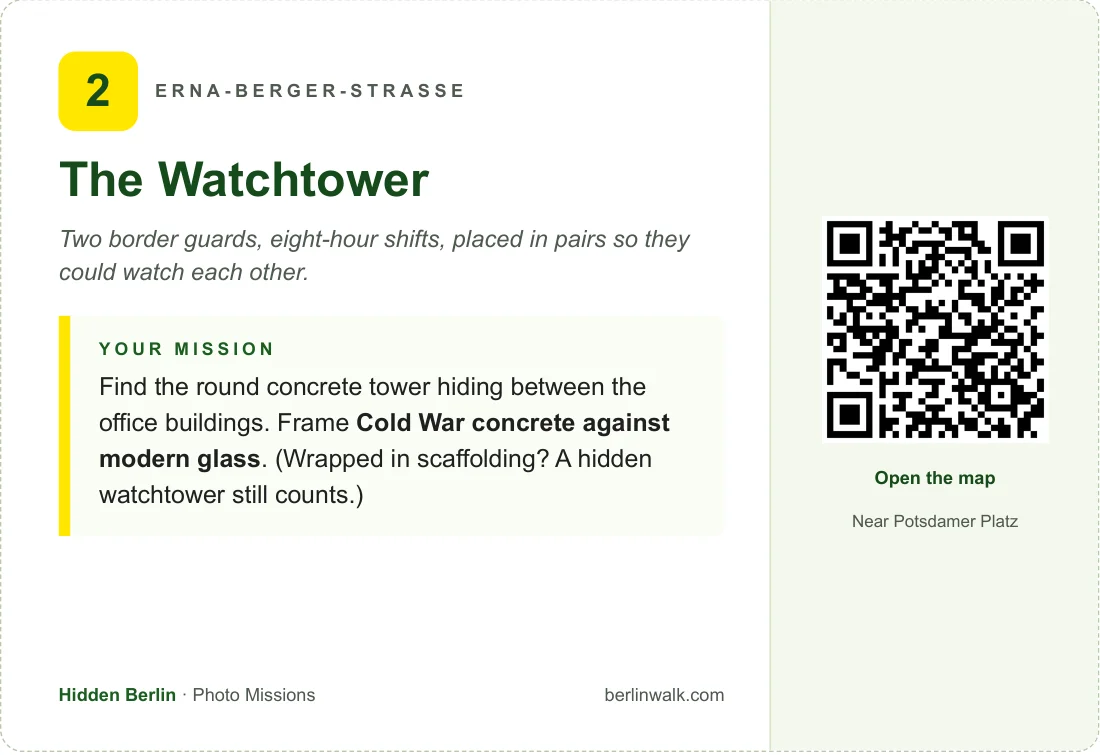
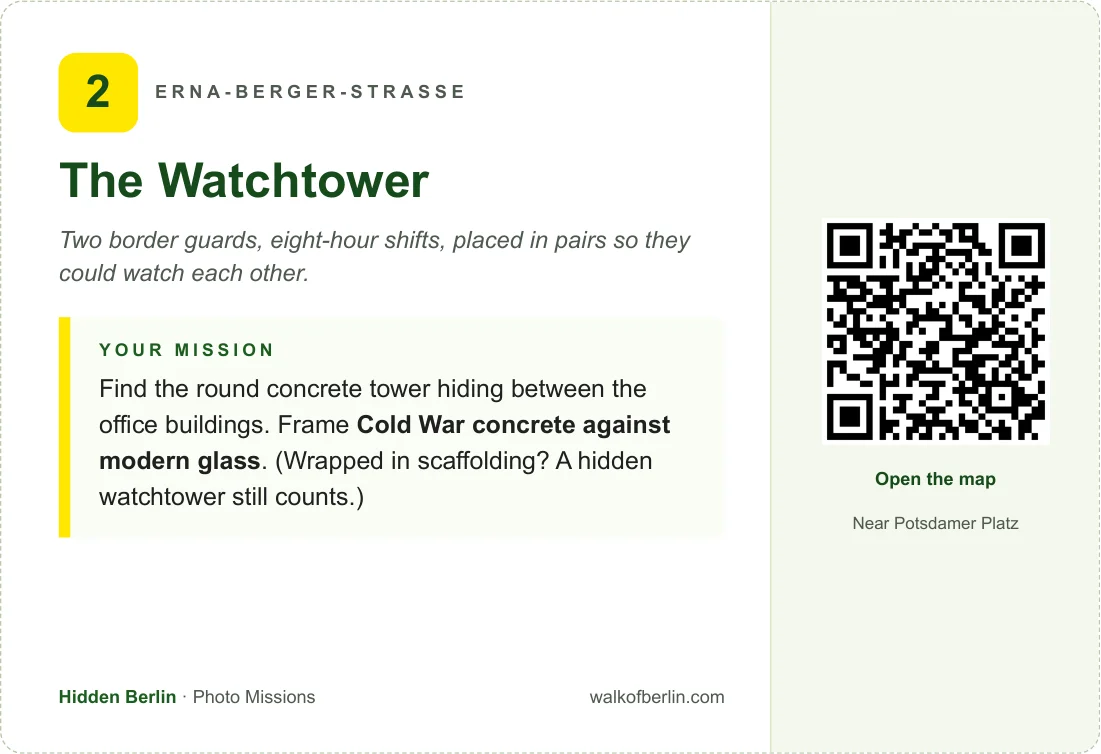
Update sanitized public runtime

diff --git a/photo-missions-teaser/index.html b/photo-missions-teaser/index.html
@@ -349,7 +349,7 @@
     <article class="card">
       <div class="card-photo">
         <span class="card-tag">Mission 1 of 10</span>
-        <img src="https://app.berlinwalk.com/assets/photo-missions/samples/sample-card-1.png" alt="Hidden Berlin Photo Missions, mission 1: the surviving Anhalter Bahnhof portal" loading="lazy" width="1100" height="755">
+        <img src="../photo-missions-store/assets/sample-card-1.webp" alt="Hidden Berlin Photo Missions, mission 1: the surviving Anhalter Bahnhof portal" loading="lazy" width="1100" height="755">
       </div>
       <div class="card-body">
         <h2>The station that lost everything but one door.</h2>
@@ -399,7 +399,7 @@
 
     <div class="cta-block">
       <p class="cta-line">Get all 10 missions for <span class="price">&euro;3.99</span>.</p>
-      <a class="cta-btn" href="https://www.berlinwalk.com/products/hidden-berlin-photo-missions?utm_source=embed&amp;utm_medium=widget&amp;utm_campaign=photo-missions-teaser&amp;utm_content=mission1-cta" target="_top" rel="noopener" data-cta-link>Get the PDF &rarr;</a>
+      <a class="cta-btn" href="https://walkofberlin.com/products/hidden-berlin-photo-missions?utm_source=embed&amp;utm_medium=widget&amp;utm_campaign=photo-missions-teaser&amp;utm_content=mission1-cta" target="_top" rel="noopener" data-cta-link>Get the PDF &rarr;</a>
       <p class="cta-note">Instant download. Works on your phone or printed.</p>
     </div>
   </main>
@@ -421,6 +421,13 @@
         label.textContent = 'Tip revealed';
         btn.disabled = true;
       });
+      // On the store page itself the button scrolls the parent page to its buy box instead of reloading it.
+      if (/(^|[?&])surface=store-page(&|$)/.test(location.search) && window.parent !== window) {
+        document.querySelector('[data-cta-link]').addEventListener('click', function (event) {
+          event.preventDefault();
+          window.parent.postMessage({ type: 'bw-photo-missions-buy' }, 'https://www.walkofberlin.com');
+        });
+      }
     })();
   </script>
 </body>

diff --git a/photo-missions-store/photo-missions-store-element.js b/photo-missions-store/photo-missions-store-element.js
@@ -211,6 +211,7 @@ ${TAG}{display:block;width:100%;max-width:100%;min-width:0;height:auto!important
 
     disconnectedCallback() {
       if (this._io) this._io.disconnect();
+      window.removeEventListener('message', this._onMessage);
       if (window.__bwStoreCreditsHtml === CREDITS) window.__bwStoreCreditsHtml = '';
       this._ready = false;
     }
@@ -328,6 +329,12 @@ ${TAG}{display:block;width:100%;max-width:100%;min-width:0;height:auto!important
           submit.textContent = idle;
         });
       });
+      // The teaser's "Get the PDF" button asks for the buy box (photo-missions-teaser, surface=store-page).
+      this._onMessage = (event) => {
+        if (!/^https:\/\/fenerszymanski\.github\.io$/.test(event.origin) || !event.data || event.data.type !== 'bw-photo-missions-buy') return;
+        this.querySelector('[data-bwpm-jump]').click();
+      };
+      window.addEventListener('message', this._onMessage);
       const buy = this.querySelector('[data-bwpm-submit]');
       const bar = this.querySelector('[data-bwpm-sticky]');
       if ('IntersectionObserver' in window && buy && bar) {
